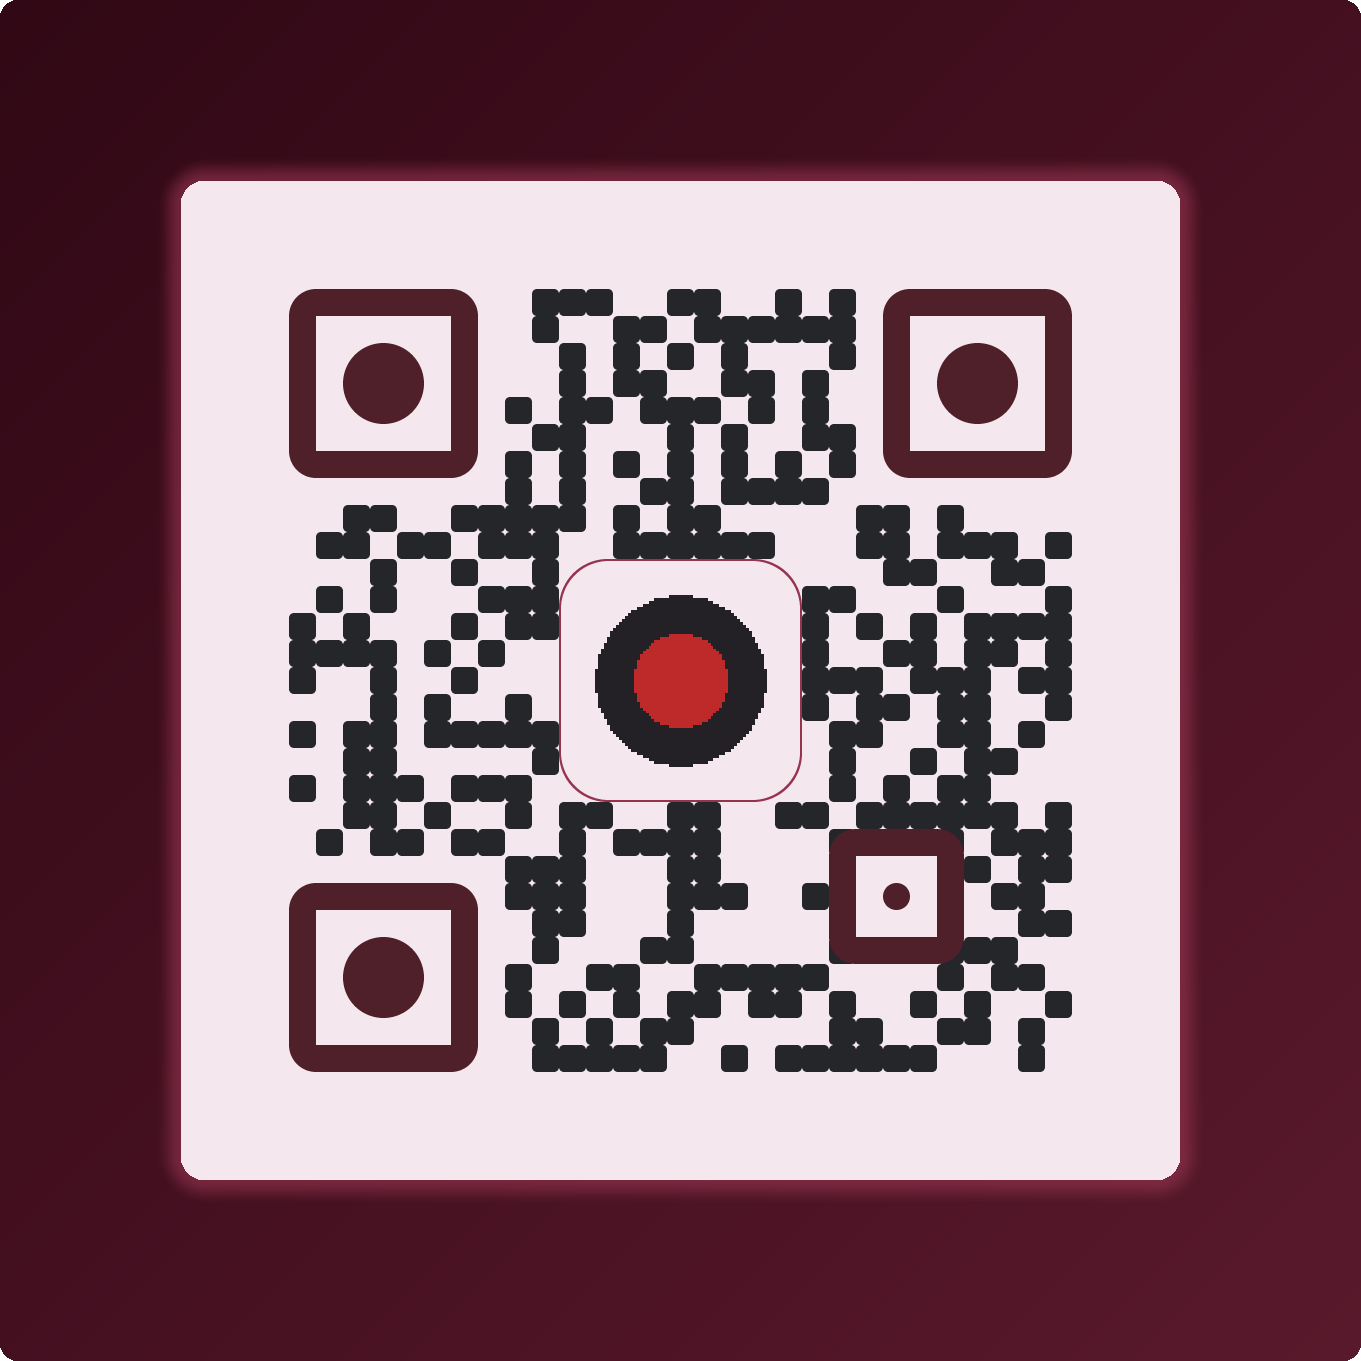
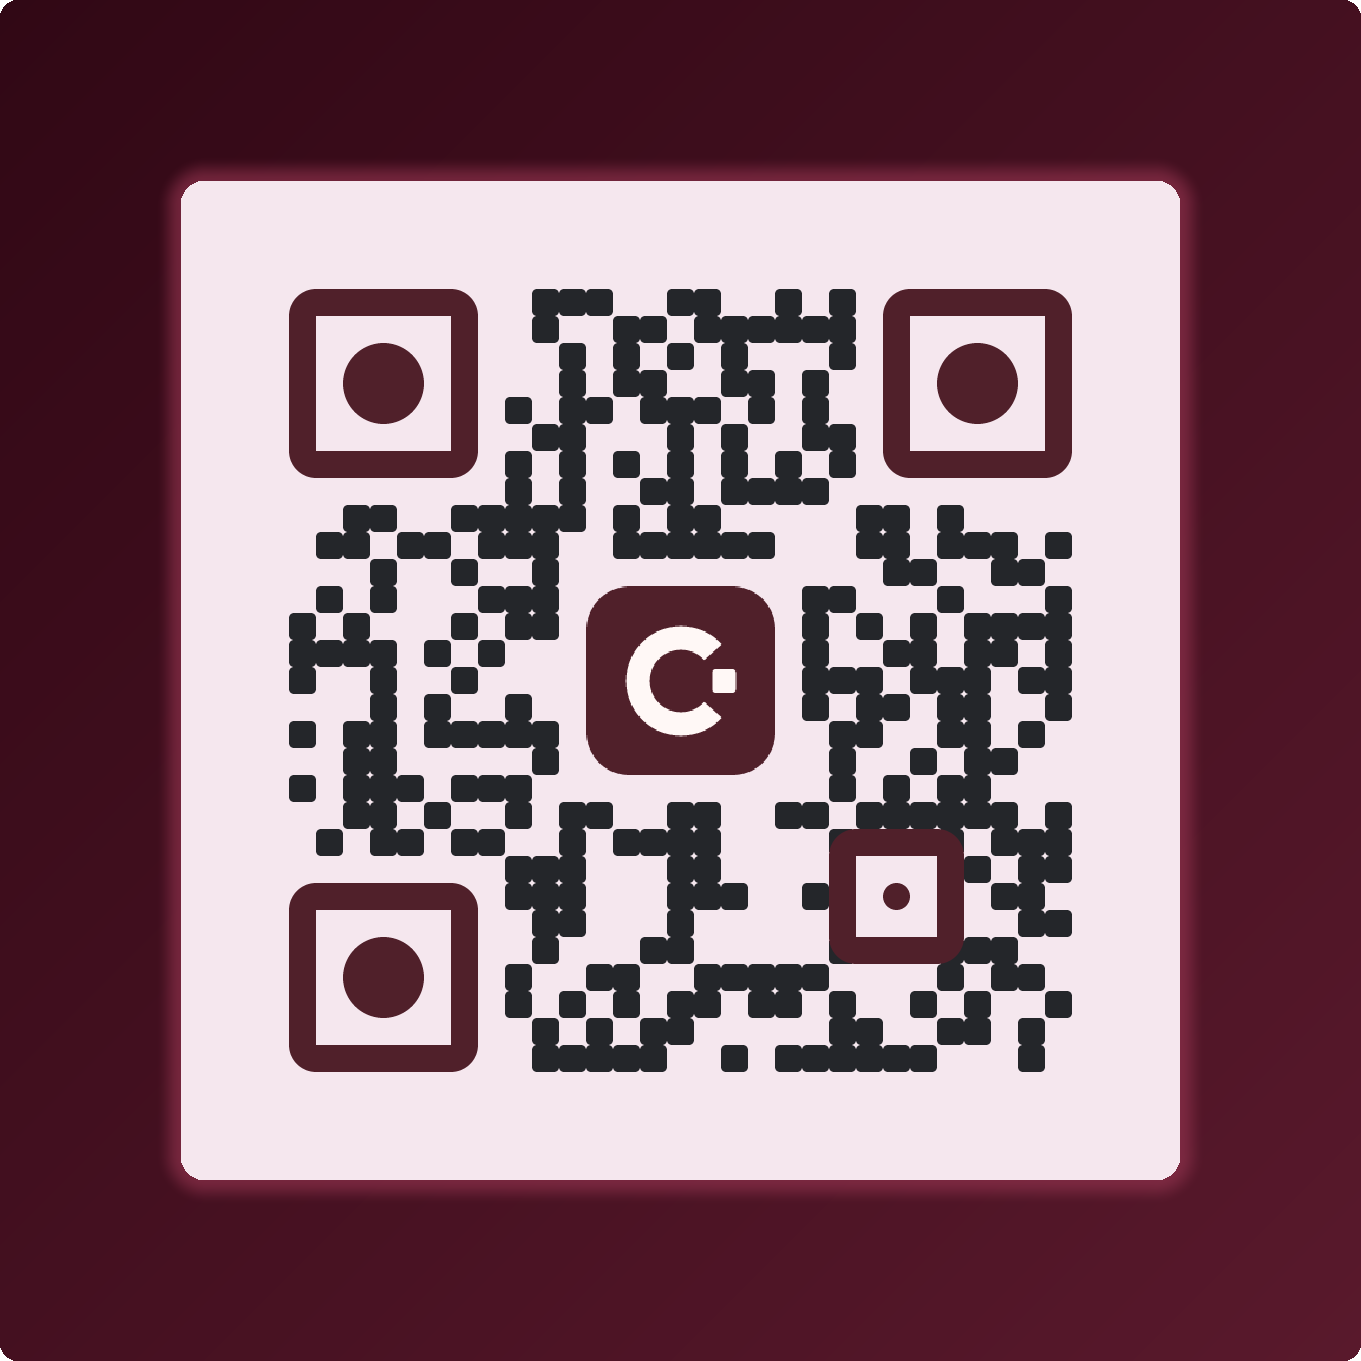
fix(qr): 🐛 polish the Minimal Line, Brand, Neon, Mono Classy and Paper Cutout heroes
- Minimal Line: thin alignment rings no longer repeat their side modules as body
  dots, so nothing bulges past the ring. The four corner modules keep whole,
  separate dots clear of the ring, so every perimeter centre stays dark.
- Brand: the plate matches its panel, so I dropped the accent hairline around the
  logo. The site sample logo is now a neutral anti-aliased monogram tile in the
  eye colour instead of the red "record" dot.
- Neon: the light variant is now a real light composition, a pale lilac ground
  and white panel with the magenta rim, a tighter violet bloom and vivid eyes.
  Dark Neon is unchanged.
- Mono Classy: near-black square modules with the classy eyes on a plain white
  canvas, and a neutral graphite dark ground.
- Paper Cutout: a craft palette with a kraft ground, a terracotta sheet set
  further under the cream card, cocoa ink and terracotta eyes.

The other hero renders are pixel-identical. Regenerated the site hero specimens
with SiteSpecimens --heroes-only.

Changed region(s): [[0.432, 0.432, 0.5863, 0.5863]]

diff --git a/CodeGlyphX/QrArt.HeroPresets.cs b/CodeGlyphX/QrArt.HeroPresets.cs
@@ -5,7 +5,7 @@ namespace CodeGlyphX;
 
 public static partial class QrArt {
     /// <summary>Creates an independent, editable hero appearance. Dark compositions retain
-    /// a light QR panel and full quiet zone; Neon uses its dark composition for both choices.
+    /// a light QR panel and full quiet zone; light Neon keeps its rim and bloom on a pale ground.
     /// Brand provides the two-color appearance;
     /// pass it to RenderLogo to place and validate the actual logo without silently omitting it.</summary>
     public static QrRenderOptions Hero(QrHeroPreset preset, bool darkPanel = false) {
@@ -41,9 +41,8 @@ public static partial class QrArt {
                 options.ForegroundGradient.StartOffset = .4;
                 break;
             case QrHeroPreset.MonoClassy:
-                options.ModuleShape = QrModuleShape.ConnectedRounded;
-                options.Foreground = new Rgba32(43, 43, 43);
-                options.Background = new Rgba32(244, 239, 230);
+                options.ModuleShape = QrModuleShape.Square;
+                options.Foreground = new Rgba32(17, 17, 19);
                 options.Eyes.OuterShape = QrModuleShape.Classy;
                 options.Eyes.MirrorOutward = true;
                 options.Eyes.InnerShape = QrModuleShape.Square;
@@ -61,17 +60,30 @@ public static partial class QrArt {
                 options.Foreground = new Rgba32(48, 10, 71);
                 options.Background = new Rgba32(251, 239, 255);
                 options.Eyes.OuterColor = options.Eyes.InnerColor = new Rgba32(94, 13, 80);
-                options.Canvas = Panel(new Rgba32(10, 6, 20), 48);
+                options.Canvas = Panel(darkPanel ? new Rgba32(10, 6, 20) : new Rgba32(250, 246, 255), 48);
                 options.Canvas.PanelGlowColor = new Rgba32(255, 43, 214);
                 options.Canvas.SecondaryPanelGlowColor = new Rgba32(123, 43, 255);
+                if (!darkPanel) {
+                    // The light composition carries its neon through the rim, bloom and eyes.
+                    options.Background = Rgba32.White;
+                    options.Canvas.BackgroundGradient = Gradient(QrGradientType.DiagonalDown,
+                        new Rgba32(246, 240, 255), new Rgba32(255, 238, 249));
+                    options.Canvas.PanelGlowColor = new Rgba32(255, 43, 214, 210);
+                    options.Canvas.SecondaryPanelGlowColor = new Rgba32(123, 43, 255, 120);
+                    options.Eyes.OuterColor = new Rgba32(196, 0, 150);
+                    options.Eyes.InnerColor = new Rgba32(84, 16, 160);
+                }
                 break;
             case QrHeroPreset.PaperCutout:
                 options.ModuleShape = QrModuleShape.Liquid;
-                options.Foreground = new Rgba32(69, 51, 38);
-                options.Background = new Rgba32(255, 252, 245);
-                options.Canvas = Panel(darkPanel ? new Rgba32(32, 27, 24) : new Rgba32(237, 225, 205), 52);
-                options.Canvas.ShadowColor = new Rgba32(35, 23, 12, 46);
-                options.Canvas.StackedPanelColor = darkPanel ? new Rgba32(187, 167, 139) : new Rgba32(225, 207, 176);
+                // Craft paper: a kraft ground, a terracotta sheet under the cream card, cocoa ink.
+                options.Foreground = new Rgba32(66, 40, 26);
+                options.Background = new Rgba32(255, 250, 240);
+                options.Eyes.OuterColor = new Rgba32(160, 66, 36);
+                options.Eyes.InnerColor = new Rgba32(66, 40, 26);
+                options.Canvas = Panel(darkPanel ? new Rgba32(32, 27, 24) : new Rgba32(222, 196, 158), 52);
+                options.Canvas.ShadowColor = new Rgba32(58, 30, 10, 72);
+                options.Canvas.StackedPanelColor = darkPanel ? new Rgba32(190, 98, 62) : new Rgba32(206, 116, 78);
                 break;
             case QrHeroPreset.RetroPixel:
                 options.ModuleShape = QrModuleShape.Square;
@@ -105,14 +117,14 @@ public static partial class QrArt {
                 options.Eyes.OuterShape = QrModuleShape.Squircle;
                 break;
         }
-        if (darkPanel || preset == QrHeroPreset.Neon) {
+        if (darkPanel) {
             var ground = preset switch {
                 QrHeroPreset.Ocean => new Rgba32(5, 20, 40),
                 QrHeroPreset.Sunset => new Rgba32(42, 18, 6),
                 QrHeroPreset.Botanical => new Rgba32(12, 30, 20),
                 QrHeroPreset.Berry => new Rgba32(34, 12, 35),
                 QrHeroPreset.DotMatrix => new Rgba32(10, 20, 39),
-                QrHeroPreset.MonoClassy => new Rgba32(35, 31, 27),
+                QrHeroPreset.MonoClassy => new Rgba32(22, 22, 24),
                 QrHeroPreset.Ink => new Rgba32(15, 17, 20),
                 QrHeroPreset.MinimalLine => new Rgba32(24, 26, 25),
                 QrHeroPreset.Brand => new Rgba32(49, 8, 21),
@@ -130,7 +142,7 @@ public static partial class QrArt {
                 QrHeroPreset.DotMatrix => new Rgba32(231, 239, 252),
                 QrHeroPreset.Sunset => new Rgba32(255, 233, 238),
                 QrHeroPreset.Ocean => new Rgba32(223, 247, 246),
-                QrHeroPreset.MonoClassy => new Rgba32(235, 231, 222),
+                QrHeroPreset.MonoClassy => new Rgba32(244, 244, 242),
                 QrHeroPreset.Brand => new Rgba32(245, 231, 238),
                 QrHeroPreset.Neon => new Rgba32(251, 239, 255),
                 QrHeroPreset.PaperCutout => new Rgba32(237, 223, 198),
@@ -153,7 +165,7 @@ public static partial class QrArt {
         }
         if (preset is QrHeroPreset.Ink or QrHeroPreset.DotMatrix or QrHeroPreset.MinimalLine or QrHeroPreset.MonoClassy)
             options.LogoTint = options.Foreground;
-        if (preset is QrHeroPreset.Sunset or QrHeroPreset.Ocean or QrHeroPreset.Neon or QrHeroPreset.Berry or QrHeroPreset.Brand) {
+        if (preset is QrHeroPreset.Sunset or QrHeroPreset.Ocean or QrHeroPreset.Neon or QrHeroPreset.Berry) {
             options.LogoRingColor = HeroAccent(preset);
             options.LogoRingWidthPx = 2;
         }
@@ -190,7 +202,7 @@ public static partial class QrArt {
         QrHeroPreset.Berry => new Rgba32(208, 59, 137),
         QrHeroPreset.RetroPixel => new Rgba32(180, 85, 111),
         QrHeroPreset.PaperCutout => new Rgba32(152, 112, 65),
-        QrHeroPreset.MonoClassy => new Rgba32(130, 116, 96),
+        QrHeroPreset.MonoClassy => new Rgba32(112, 112, 118),
         QrHeroPreset.MinimalLine => new Rgba32(108, 122, 113),
         _ => new Rgba32(104, 116, 132)
     };

diff --git a/CodeGlyphX.Tests/QrPremiumGeometryTests.cs b/CodeGlyphX.Tests/QrPremiumGeometryTests.cs
@@ -18,11 +18,18 @@ public sealed class QrPremiumGeometryTests {
         Assert.True(brand.R > retro.R && brand.G < retro.G && brand.B < retro.B);
     }
     [Fact]
-    public void Neon_HasSeparateVioletBloomOutsideTheMagentaRim_AndOneDarkComposition() {
-        var options = QrArt.Hero(QrHeroPreset.Neon);
+    public void Neon_HasSeparateVioletBloomOutsideTheMagentaRim_AndALightComposition() {
+        var options = QrArt.Hero(QrHeroPreset.Neon, true);
         var encoding = new QrEncodingOptions { ErrorCorrectionLevel = QrErrorCorrectionLevel.H };
         var png = QR.Render(QrArtPremiumScanTests.ShortUrl, OutputFormat.Png, options, encoding).ToArray();
-        Assert.Equal(png, QR.Render(QrArtPremiumScanTests.ShortUrl, OutputFormat.Png, QrArt.Hero(QrHeroPreset.Neon, true), encoding).ToArray());
+        var light = QrArt.Hero(QrHeroPreset.Neon);
+        var lightPng = QR.Render(QrArtPremiumScanTests.ShortUrl, OutputFormat.Png, light, encoding).ToArray();
+        Assert.NotEqual(png, lightPng);
+        var lightPixels = ImageReader.DecodeRgba32(lightPng, out var lw, out var lh);
+        var corner = ((lh / 2) * lw + 8) * 4;
+        Assert.True(lightPixels[corner] + lightPixels[corner + 1] + lightPixels[corner + 2] > 690, "Light Neon needs a pale ground.");
+        Assert.NotNull(light.Canvas!.PanelGlowColor);
+        Assert.NotNull(light.Canvas.SecondaryPanelGlowColor);
         var pixels = ImageReader.DecodeRgba32(png, out var w, out var h);
         var left = Enumerable.Range(0, w / 2).First(x => {
             var p = ((h / 2) * w + x) * 4;
@@ -43,7 +50,8 @@ public sealed class QrPremiumGeometryTests {
         var options = QrArt.Hero(hero, true);
         var tinted = hero is QrHeroPreset.Ink or QrHeroPreset.DotMatrix or QrHeroPreset.MinimalLine or QrHeroPreset.MonoClassy;
         Assert.Equal(tinted, options.LogoTint.HasValue);
-        var ringed = hero is QrHeroPreset.Sunset or QrHeroPreset.Ocean or QrHeroPreset.Neon or QrHeroPreset.Berry or QrHeroPreset.Brand;
+        // Brand's plate matches its panel and needs no outline around the host's logo.
+        var ringed = hero is QrHeroPreset.Sunset or QrHeroPreset.Ocean or QrHeroPreset.Neon or QrHeroPreset.Berry;
         Assert.Equal(ringed, options.LogoRingColor.HasValue);
         Assert.Null(options.LogoBackground); // The plate inherits the actual edited panel colour.
     }
@@ -114,6 +122,28 @@ public sealed class QrPremiumGeometryTests {
     }
 
     [Fact]
+    public void ThinAlignmentRing_HasNoProtrudingDots_AndKeepsEveryPerimeterModuleDark() {
+        var qr = QR.Encode("RING", new QrEncodingOptions { MinVersion = 2, MaxVersion = 2, ErrorCorrectionLevel = QrErrorCorrectionLevel.H });
+        const int m = 20;
+        var hero = QrArt.Hero(QrHeroPreset.MinimalLine);
+        var pixels = QrPngRenderer.RenderPixels(qr.Modules, new QrPngRenderOptions {
+            ModuleSize = m, ModuleShape = hero.ModuleShape!.Value, ModuleScale = hero.ModuleScale!.Value, Eyes = hero.Eyes, Foreground = hero.Foreground
+        }, out var w, out _, out _);
+        byte Red(double x, double y) => pixels[((int)((y + 4) * m) * w + (int)((x + 4) * m)) * 4];
+        // Every perimeter module centre stays dark: sides on the ring, corners as separate whole dots.
+        foreach (var (x, y) in new[] { (16.5, 16.5), (20.5, 16.5), (16.5, 20.5), (20.5, 20.5), (16.5, 18.5), (18.5, 16.5), (16.5, 17.5) }) {
+            Assert.True(qr.Modules[(int)x, (int)y]);
+            Assert.True(Red(x, y) < 64);
+        }
+        // A side dot no longer bulges past the ring, and each corner dot stays clear of it.
+        Assert.Equal(255, Red(16.28, 17.39));
+        Assert.Equal(255, Red(16.77, 16.77));
+        Assert.Equal(255, Red(16.05, 16.05));
+        Assert.Equal(255, Red(17.5, 18.5));
+        Assert.True(Red(18.5, 18.5) < 64);
+    }
+
+    [Fact]
     public void RadialGradient_HoldsTheOceanCoreBeforeBlending() {
         var modules = new BitMatrix(21, 21);
         for (var y = 0; y < 21; y++) for (var x = 0; x < 21; x++) modules[x, y] = true;
@@ -160,12 +190,13 @@ public sealed class QrPremiumGeometryTests {
     }
 
     public static IEnumerable<object[]> Effects() {
-        yield return new object[] { QrHeroPreset.Neon };
-        yield return new object[] { QrHeroPreset.PaperCutout };
+        yield return new object[] { QrHeroPreset.Neon, true };
+        yield return new object[] { QrHeroPreset.Neon, false };
+        yield return new object[] { QrHeroPreset.PaperCutout, true };
     }
     [Theory, MemberData(nameof(Effects))]
-    public void HeroEffects_HaveReservedFiniteExtent_AndNoClippedPixels(QrHeroPreset hero) {
-        var options = QrArt.Hero(hero, true);
+    public void HeroEffects_HaveReservedFiniteExtent_AndNoClippedPixels(QrHeroPreset hero, bool dark) {
+        var options = QrArt.Hero(hero, dark);
         var png = QR.Render(QrArtPremiumScanTests.ShortUrl, OutputFormat.Png, options, new QrEncodingOptions { ErrorCorrectionLevel = QrErrorCorrectionLevel.H }).ToArray();
         var rgba = ImageReader.DecodeRgba32(png, out var w, out var h);
         var control = QrRenderer.CloneOptions(options);

diff --git a/Website/tools/SiteSpecimens/Specimens.Heroes.cs b/Website/tools/SiteSpecimens/Specimens.Heroes.cs
@@ -12,7 +12,7 @@ internal static class HeroSpecimens {
         const string payload = "https://codeglyphx.com";
         var directory = Path.Combine(website, "static", "assets", "hero-presets");
         Directory.CreateDirectory(directory);
-        var logo = LogoBuilder.CreateCirclePng(64, new Rgba32(35, 32, 38), new Rgba32(190, 42, 42), out _, out _);
+        var logo = SampleBrandMark(160, new Rgba32(80, 32, 42), new Rgba32(255, 248, 246));
         var presets = new List<object>();
         foreach (var preset in Enum.GetValues<QrHeroPreset>()) {
             var variants = new List<object>();
@@ -33,7 +33,7 @@ internal static class HeroSpecimens {
                 ImageReader.DecodeRgba32(png, out var width, out var height);
                 var file = preset.ToString().ToLowerInvariant() + (dark ? "-dark.png" : "-light.png");
                 File.WriteAllBytes(Path.Combine(directory, file), png);
-                variants.Add(new { name = preset == QrHeroPreset.Neon ? "Dark design" : dark ? "Dark" : "Light", src = "/assets/hero-presets/" + file, width, height, decoded = payload, budget });
+                variants.Add(new { name = dark ? "Dark" : "Light", src = "/assets/hero-presets/" + file, width, height, decoded = payload, budget });
             }
             var code = preset == QrHeroPreset.Brand
                 ? "var appearance = QrArt.Hero(QrHeroPreset.Brand);\nvar result = QrArt.RenderLogo(\"https://codeglyphx.com\",\n    File.ReadAllBytes(\"logo.png\"),\n    new CodeGlyphX.Rendering.Art.QrLogoRenderOptions { Appearance = appearance });\nFile.WriteAllBytes(\"brand.png\", result.GetPng());"
@@ -44,6 +44,43 @@ internal static class HeroSpecimens {
         File.WriteAllText(Path.Combine(website, "data", "hero-presets.json"),
             JsonSerializer.Serialize(new { presets }, new JsonSerializerOptions { WriteIndented = true }) + "\n", new UTF8Encoding(false));
         Console.WriteLine("Rendered and native-validated 24 curated QR specimens.");
+    }
+
+    // A neutral sample mark in the Brand eye colour: a rounded tile carrying an open "C" and a detached
+    // square terminal. Each pixel averages 4x4 samples so the curves stay smooth after scaling.
+    private static byte[] SampleBrandMark(int size, Rgba32 tile, Rgba32 mark) {
+        var rgba = new byte[size * size * 4];
+        for (var y = 0; y < size; y++)
+            for (var x = 0; x < size; x++) {
+                int tileHits = 0, markHits = 0;
+                for (var sy = 0; sy < 4; sy++)
+                    for (var sx = 0; sx < 4; sx++) {
+                        var u = (x + (sx + .5) / 4) / size - .5;
+                        var v = (y + (sy + .5) / 4) / size - .5;
+                        if (!InRoundedSquare(u, v, .5, .23)) continue;
+                        tileHits++;
+                        var r = Math.Sqrt(u * u + v * v);
+                        var opening = u > 0 && Math.Abs(v) < u * .9;
+                        var arc = r <= .29 && r >= .165 && !opening;
+                        var terminal = InRoundedSquare(u - .2275, v, .0625, .018);
+                        if (arc || terminal) markHits++;
+                    }
+                if (tileHits == 0) continue;
+                var p = (y * size + x) * 4;
+                var t = markHits / (double)tileHits;
+                rgba[p] = (byte)Math.Round(tile.R + (mark.R - tile.R) * t);
+                rgba[p + 1] = (byte)Math.Round(tile.G + (mark.G - tile.G) * t);
+                rgba[p + 2] = (byte)Math.Round(tile.B + (mark.B - tile.B) * t);
+                rgba[p + 3] = (byte)((tileHits * 255 + 8) / 16);
+            }
+        return CodeGlyphX.Rendering.Png.PngImageEncoder.EncodeRgba32(rgba, size, size);
+
+        static bool InRoundedSquare(double u, double v, double half, double radius) {
+            var dx = Math.Abs(u) - (half - radius);
+            var dy = Math.Abs(v) - (half - radius);
+            if (dx <= 0 || dy <= 0) return Math.Abs(u) <= half && Math.Abs(v) <= half;
+            return dx * dx + dy * dy <= radius * radius;
+        }
     }
 
     private static string DisplayName(QrHeroPreset preset) => preset switch {

diff --git a/CodeGlyphX/Rendering/Png/QrPngRenderer.StyledGeometry.cs b/CodeGlyphX/Rendering/Png/QrPngRenderer.StyledGeometry.cs
@@ -109,6 +109,10 @@ public static partial class QrPngRenderer {
         var outerRadius = (eye?.OuterCornerRadiusPx ?? 0) / (double)(cells * m);
         var holeRadius = eye?.OuterCornerRadiusPx > 0 ? Math.Max(1e-9, (eye.OuterCornerRadiusPx - m) / (double)((cells - 2) * m)) : 0;
         var ballRadius = (eye?.InnerCornerRadiusPx ?? 0) / (double)((cells - 4) * m);
+        // A thin alignment ring already carries its side modules. Their body ink is not repeated, so no
+        // partial dot protrudes past the ring's edge. The four corner modules lie outside a circle and
+        // keep separate whole body dots, clear of the ring, so every perimeter module centre stays dark.
+        var thinAlignment = index < 0 && (eye?.RingThicknessModules ?? 1) < 1;
         if (index >= 0 && frame == QrEyeFrameStyle.Glow && eye is not null) {
             var glowRadius = eye.GlowRadiusPx > 0 ? eye.GlowRadiusPx : m * 2;
             var glow = eye.GlowColor ?? outer;
@@ -134,6 +138,7 @@ public static partial class QrPngRenderer {
                             if (cx == 2 && cy == 2 && QrShapeGeometry.Contains(QrModuleShape.Circle, xx - cx, yy - cy)) ballHits++;
                             continue;
                         }
+
                         var thickness = eye?.RingThicknessModules ?? 1;
                         // Keep a thin stroke centred on the standard ring's centreline.
                         // Expanding only its aperture shifts the ring and breaks finder run ratios.
@@ -144,7 +149,8 @@ public static partial class QrPngRenderer {
                         if (index < 0 && !QrShapeGeometry.ContainsEye(outerShape, (xx - outerInset) / outerSpan, (yy - outerInset) / outerSpan, radius: outerRadius, outwardCorner: eye?.MirrorOutward == true ? (index < 0 ? 3 : index) : -1)) {
                             var cellX = Math.Min(cells - 1, (int)xx); var cellY = Math.Min(cells - 1, (int)yy);
                             var qx = mx + cellX; var qy = my + cellY;
-                            if (modules[qx, qy] && QrShapeGeometry.Contains(opts.ModuleShape, xx - cellX, yy - cellY,
+                            var corner = (cellX == 0 || cellX == cells - 1) && (cellY == 0 || cellY == cells - 1);
+                            if ((!thinAlignment || corner) && modules[qx, qy] && QrShapeGeometry.Contains(opts.ModuleShape, xx - cellX, yy - cellY,
                                 opts.ModuleScale, opts.ModuleCornerRadiusPx / (double)m, GetNeighborMask(modules, qx, qy))) bodyHits++;
                         }
                         if (QrShapeGeometry.ContainsEye(outerShape, (xx - outerInset) / outerSpan, (yy - outerInset) / outerSpan, radius: outerRadius, outwardCorner: eye?.MirrorOutward == true ? (index < 0 ? 3 : index) : -1)

diff --git a/CodeGlyphX/QrRenderer.HeroLayout.cs b/CodeGlyphX/QrRenderer.HeroLayout.cs
@@ -53,7 +53,7 @@ internal static partial class QrRenderer {
             QrHeroPreset.Ocean or QrHeroPreset.Sunset => .18,
             _ => .181
         };
-        canvas.PaddingPx = Math.Max(canvas.PaddingPx, (int)Math.Ceiling(full * (darkGround ? darkPadding : .065)));
+        canvas.PaddingPx = Math.Max(canvas.PaddingPx, (int)Math.Ceiling(full * (darkGround ? darkPadding : hero == QrHeroPreset.Neon ? .1 : .065)));
         canvas.QrCornerRadiusPx = render.Eyes?.OuterShape switch {
             QrModuleShape.Square => 0,
             QrModuleShape.Circle => Math.Max(2, (int)Math.Round(full * .09)),
@@ -65,13 +65,14 @@ internal static partial class QrRenderer {
         }
         if (hero == QrHeroPreset.Neon) {
             canvas.PanelGlowRadiusPx = Math.Max(1, (int)Math.Round(full * .03125));
-            canvas.SecondaryPanelGlowRadiusPx = Math.Max(1, (int)Math.Round(full * .1425));
+            // A pale ground keeps a tighter bloom so the code stays large in small previews.
+            canvas.SecondaryPanelGlowRadiusPx = Math.Max(1, (int)Math.Round(full * (darkGround ? .1425 : .085)));
         }
         if (hero == QrHeroPreset.Sunset && darkGround)
             canvas.SecondaryPanelGlowRadiusPx = Math.Max(1, (int)Math.Round(full * .07));
         if (hero == QrHeroPreset.PaperCutout) {
             canvas.ShadowOnPanelsOnly = darkGround;
-            canvas.StackedPanelOffsetPx = Math.Max(1, (int)Math.Round(full * .012));
+            canvas.StackedPanelOffsetPx = Math.Max(1, (int)Math.Round(full * .024));
             canvas.ShadowOffsetX = 0;
             canvas.ShadowOffsetY = Math.Max(1, (int)Math.Round(full * .012));
             canvas.ShadowBlurPx = Math.Max(1, (int)Math.Round(full * .03125));
